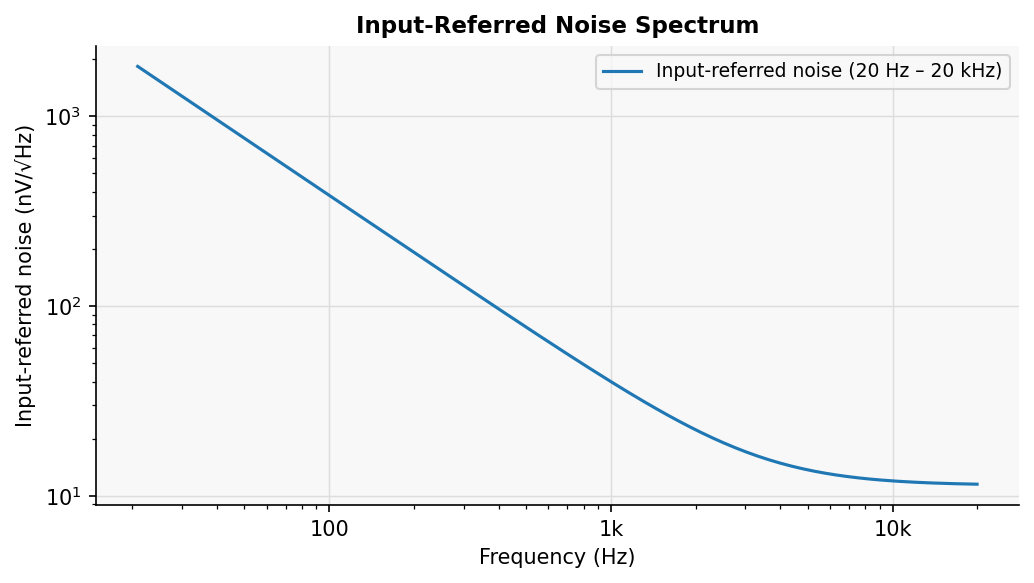
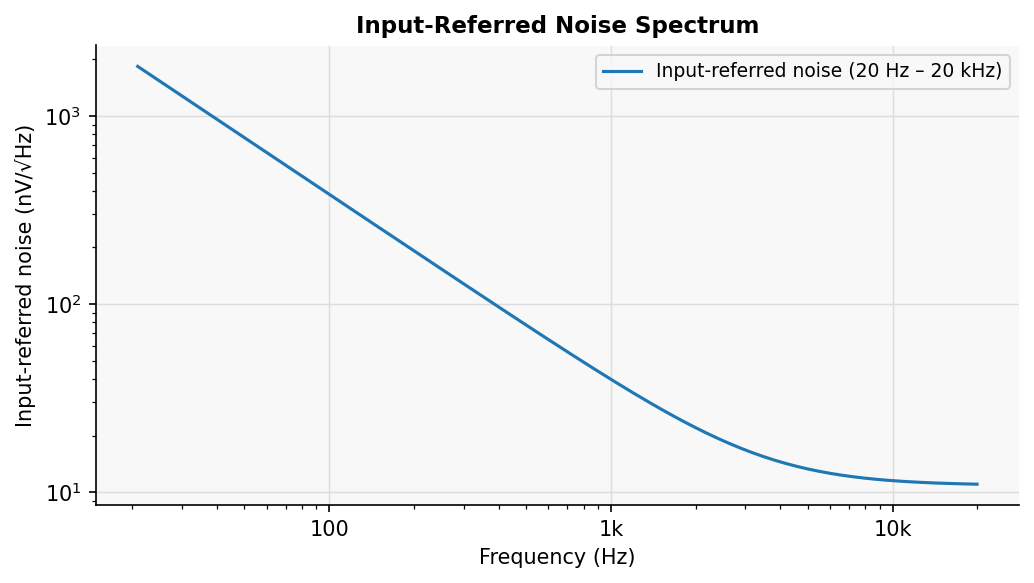
sim, docs: model parameters from data sheets, not fitted to measurements (#132)
Measurements check the model; they no longer set its values.

- C_IN 12 pF -> 9 pF: OPA1641 common-mode 6 pF (SBOS484) plus about 3 pF
  of strays calculated from the layout. 12 pF had been fitted to a measured
  gain.
- Transformer 3-turn Lp 8 H -> 7.4 H, derived from the NTE10/3 data sheet
  (at most -2 dB from 20 Hz to 20 kHz in its intended use, taken at 20 Hz).
  8 H had been fitted to a sweep of the whole microphone. No core loss: the
  data sheet gives nothing to set it from. Winding resistances are
  measurements of the part on its own.

Sensitivity into 600 ohm -40.2 dBV/Pa (README still about -39 / -23 into
1.5 kOhm); simulated self-noise 18.9 dB(A) with a 55 pF capsule (was 19.1).
README, the measurement doc, the deck comments and both plots follow. The
measured gain sits below this model and the 30 Hz bump is not measured;
both stay open in #132.

Claude-Session: https://claude.ai/code/session_01JJVE6iPs7mqtayJNH2CABt

diff --git a/pcb/gen_params.py b/pcb/gen_params.py
@@ -45,9 +45,10 @@ PARAMS = {
     # ── OPA1641 behavioral model (from datasheet) ─────────────────────────
     "OPA_OL_GAIN":  "100k",   # open-loop gain (100 dB)
     "OPA_VN_REQ":   "1570",   # voltage noise equiv. resistor (5.1 nV/√Hz at 1 kHz → 1570 Ω; was 2.5 nV, #114)
-    "C_IN":         "12p",    # capacitance at IN+: OPA1641 6 pF common mode plus board and lead strays.
-                              # Estimate: the gain measured through a 47 pF dummy is 0.67 dB below a model
-                              # with 7 pF, which 12 pF accounts for (#114).
+    "C_IN":         "9p",     # capacitance at IN+, from the data sheet and the layout, not from a measurement
+                              # (#132): OPA1641 common-mode 6 pF (SBOS484; the differential 8 pF is bootstrapped
+                              # by the loop gain) plus about 3 pF of board strays calculated from the layout
+                              # (traces over the ground plane, pads; #131). Was 12 pF, fitted to a measurement.
 }
 
 _OUT = os.path.join(os.path.dirname(os.path.abspath(__file__)), "..", "sim", "params.inc")

diff --git a/README.md b/README.md
@@ -44,15 +44,15 @@ Charge pump settles to ~68 V within ~1 ms. HV_FILT is RC-filtered (1 MΩ + 470 n
 
 Behavioral model, gain normalized to 1 kHz. The **blue curve** (baseline / DNP) is flat within about ±1 dB from ~500 Hz to ~20 kHz. Two high-pass mechanisms shape the low end: the input network (R_GBIAS1 ∥ R_BIAS1 = 100 MΩ against the 55 pF capsule, corner ~29 Hz) and the output DC block (C_DC = 4.7 µF) with the transformer. A third sits below them: C_G1 (10 µF) in series with R3, corner 7.2 Hz, about 0.7 dB at 20 Hz. It makes the amplifier's gain 1 at DC, so offset and leakage at the 200 MΩ input do not move the operating point (`amp_dc_offset.sp`, #123).
 
-> **The low end of the default wiring is measured (#128).** The plot uses `Lp = 8 H` for the driven 3-turn section, fitted from a sweep on the 3-turn wiring into a 1.2 kΩ input (6 to 10 H fit about as well). With the 3-turn section the transformer's inductance against its own winding resistance (521 to 540 Ω) and C_DC sets a corner with a small resonance near 30 Hz. The earlier `Lp = 1 H` was a lower bound scaled from a full-winding sweep, whose low end is set by the input network, and it was too pessimistic.
+> **Model values come from data sheets, measurements check them (#132).** The transformer's data sheet gives no inductance, only a response of at most −2 dB from 20 Hz to 20 kHz in its intended use. Taking that −2 dB at 20 Hz gives `Lp ≈ 7.4 H` for the driven 3-turn section (the derivation is in `sim/models/passives.lib`), which the plot uses. The model has no core loss, since the data sheet gives nothing to set it from. With the 3-turn section the inductance against the winding resistance (521 to 540 Ω, measured on the part) and C_DC sets the low corner, with a small resonance near 30 Hz.
 >
 > | | 20 Hz | 30 Hz | 50 Hz | 100 Hz |
 > |---|---|---|---|---|
-> | measured, 3-turn, presence fitted, 1.2 kΩ (relative to 1 kHz) | −5.0 dB | −0.6 dB | −1.4 dB | −0.7 dB |
-> | model, `Lp = 8 H` (plotted, baseline) | −4.7 dB | +1.4 dB | +0.6 dB | +0.1 dB |
+> | measured, 3-turn, presence fitted, 1.2 kΩ (relative to 1 kHz; #128) | −5.0 dB | −0.6 dB | −1.4 dB | −0.7 dB |
+> | model, `Lp = 7.4 H` (plotted, baseline) | −5.9 dB | +1.2 dB | +0.6 dB | +0.1 dB |
 > | model, `Lp = 1 H` (the earlier lower bound) | −27 dB | −18 dB | −8 dB | −1 dB |
 >
-> The measured row is on a board with the presence network, which lowers the band below 1 kHz by about 0.4 dB against 1 kHz. The 30 Hz bump in the model is not seen in the measurement. On the full winding the measured response is −3 dB at 33 Hz and −5 dB at 20 Hz, set by the input network.
+> The measured row is on a board with the presence network, which lowers the band below 1 kHz by about 0.4 dB against 1 kHz. The measurement does not show the model's 30 Hz bump, and the measured gain is lower than the model's: both are open in #132. On the full winding the measured response is −3 dB at 33 Hz and −5 dB at 20 Hz, set by the input network.
  The **orange curve** shows the optional presence-peak network populated: +2.6 dB shelving above f_c ≈ 2.1 kHz.
 
 #### Optional presence-peak network (R_PRES1, C_PRES1)
@@ -75,7 +75,7 @@ R_PRES1 (6.2 kΩ) and C_PRES1 (12 nF) in series, parallel with R3 (2.2 kΩ), are
 
 ![Noise spectrum](img/noise_spectrum.png)
 
-SPICE input-referred noise, computed by dividing total output noise by the signal transfer function at each frequency. The slope reflects the signal path's high-pass characteristic (coupling caps attenuate low-frequency signal more than noise), not a real frequency-dependent noise source. Below a few kHz the noise is set by the two 200 MΩ bias resistors (R_GBIAS1 and R_BIAS1): their thermal noise current flows into the capsule capacitance, so it falls with frequency. Simulated input-referred noise is 40 nV/√Hz at 1 kHz and about 12 nV/√Hz at 10 kHz, where the OPA1641 (5.1 nV/√Hz) and R_IN1 take over. The capacitance at the op-amp input (its own 6 pF plus strays, about 12 pF in all) divides the capsule signal but not the op-amp's noise, which raises the high-frequency part. A-weighted over 20 Hz–20 kHz this is about 2.3 µV, equivalent to roughly 19 dB(A) SPL for a 13 mV/Pa, 55 pF capsule.
+SPICE input-referred noise, computed by dividing total output noise by the signal transfer function at each frequency. The slope reflects the signal path's high-pass characteristic (coupling caps attenuate low-frequency signal more than noise), not a real frequency-dependent noise source. Below a few kHz the noise is set by the two 200 MΩ bias resistors (R_GBIAS1 and R_BIAS1): their thermal noise current flows into the capsule capacitance, so it falls with frequency. Simulated input-referred noise is 40 nV/√Hz at 1 kHz and about 12 nV/√Hz at 10 kHz, where the OPA1641 (5.1 nV/√Hz) and R_IN1 take over. The capacitance at the op-amp input (its own 6 pF common mode from the data sheet plus about 3 pF of layout strays, about 9 pF in all) divides the capsule signal but not the op-amp's noise, which raises the high-frequency part. A-weighted over 20 Hz–20 kHz this is about 2.3 µV, equivalent to about 18.9 dB(A) SPL for a 13 mV/Pa, 55 pF capsule.
 
 Measured on a v3.5 board through a 47 pF dummy capsule: 21.4 dB(A), 44 nV/√Hz at 1 kHz and 13 nV/√Hz at 10 kHz, against 20.0 dB(A), 46 and 12 simulated for that capacitance (#114). A smaller capacitance shunts less of the bias resistors' noise, so a 47 pF dummy reads about 1 dB higher than a 55 pF capsule.
 
@@ -85,9 +85,9 @@ Both are 0805 and must be the same value. A higher value lowers the noise floor 
 
 | Value (both) | Simulated self-noise | Input corner | Leakage sensitivity |
 |---|---|---|---|
-| 100 MΩ (up to v3.4.1, 1206) | 21.4 dB(A) | 59 Hz | 1× |
-| **200 MΩ (default)** | **19.1 dB(A)** | **29 Hz** | **2×** |
-| 470 MΩ (drop-in, e.g. Vishay CRCW0805470MJPEAHR) | 16.8 dB(A) | 12.5 Hz | 4.7× |
+| 100 MΩ (up to v3.4.1, 1206) | 21.3 dB(A) | 59 Hz | 1× |
+| **200 MΩ (default)** | **18.9 dB(A)** | **29 Hz** | **2×** |
+| 470 MΩ (drop-in, e.g. Vishay CRCW0805470MJPEAHR) | 16.6 dB(A) | 12.5 Hz | 4.7× |
 
 The 470 MΩ option is not a generated BOM variant; fit it by hand if wanted. Clean the area around C8, R_IN1, R_BIAS1 and U1 pin 3 thoroughly whichever value is used. Clean around R_OSC1, C10 and U4 pins 2 and 6 too: leakage at the oscillator's timing node stops the charge pump (#120).
 

diff --git a/docs/measurement.md b/docs/measurement.md
@@ -216,10 +216,10 @@ group of inputs is optional, so a partial session still gives a partial report.
 
 | Result | Simulation | What a difference means |
 |---|---|---|
-| Gain at 1 kHz | about −1.0 dB into 4 kΩ with a 56 pF dummy (sensitivity about −39 dBV/Pa with a 13 mV/Pa capsule); about 0.2 dB lower on boards up to v3.6 (100 Ω RFI resistors) | more than ±1.5 dB off: check R3, R6, the load value and the meter readings |
-| Low-frequency −3 dB corner | about 30 Hz on the full winding (set by the input network); on the 3-turn section about 22 Hz (−5 dB at 20 Hz, nearly flat from 30 Hz) | measured on the 3-turn section, `Lp` about 8 H, which `sim/models/passives.lib` now uses (#128) |
+| Gain at 1 kHz | about −0.6 dB into 4 kΩ with a 56 pF dummy (sensitivity about −39 dBV/Pa with a 13 mV/Pa capsule); about 0.2 dB lower on boards up to v3.6 (100 Ω RFI resistors) | more than ±1.5 dB off: check R3, R6, the load value and the meter readings |
+| Low-frequency −3 dB corner | about 30 Hz on the full winding (set by the input network); on the 3-turn section about 22 Hz (−5 dB at 20 Hz, nearly flat from 30 Hz) | measured on the 3-turn section (#128); `sim/models/passives.lib` uses 7.4 H derived from the data sheet (#132) |
 | Fit error | below about 1 dB | larger: the low end is not behaving like the model. Compare with the hot sweep for saturation |
-| Self-noise | about 20 dB(A) equivalent with a 47 to 56 pF dummy (19.1 with a 55 pF capsule); about 45 nV/√Hz at 1 kHz, 12 nV/√Hz at 10 kHz | higher at low frequency only: leakage or hum. Higher everywhere: supply or interface noise. Check the interface margin line |
+| Self-noise | about 20 dB(A) equivalent with a 47 to 56 pF dummy (18.9 with a 55 pF capsule); about 45 nV/√Hz at 1 kHz, 12 nV/√Hz at 10 kHz | higher at low frequency only: leakage or hum. Higher everywhere: supply or interface noise. Check the interface margin line |
 | Interface margin | 10 dB or more | less: raise the preamp gain and repeat S3, N1, N2 |
 
 Limits of the method:
